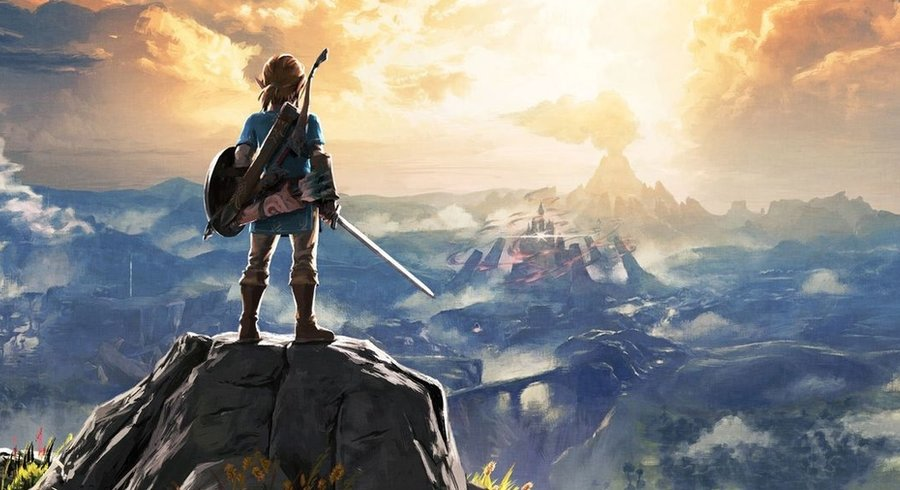
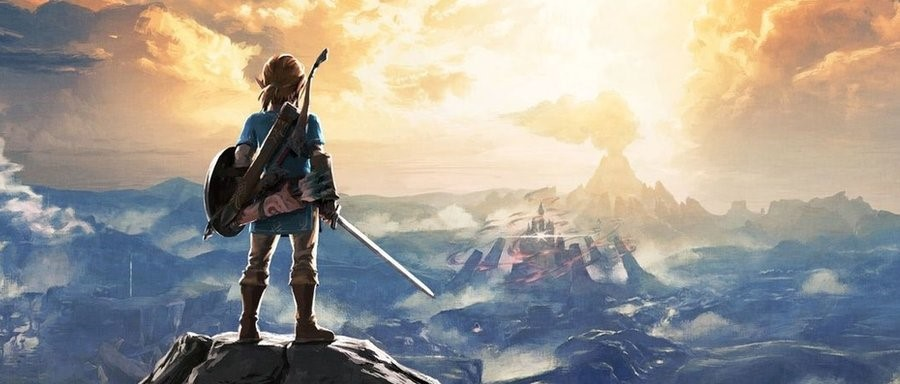
Add files via upload

diff --git a/style.css b/style.css
@@ -4,6 +4,10 @@ body{
     background: #004365;
 }
 
+#zelda{
+    width: 100%;
+}
+
 #titre_accueil{
     position: relative;
     color: white;
@@ -30,8 +34,9 @@ body{
 
 .li_haut ul{
     display: flex;
+    position: relative;
     height: 70px;
-    margin-top: 10px;
+    margin-top: 0;
     list-style-type: none;
     background: #ff572e;
     font-size: 1.5em;

diff --git a/index.php b/index.php
@@ -87,6 +87,8 @@ echo 'Bonjour M. ' . $_SESSION['utilisateur'] . '!';
 
         <img src="images/jeuxvideocomlogo.png" alt="logo jeuxvideo.com" id="logo_accueil">
 
+        <img src="images/fond_header" alt="fond du header" id="zelda">
+
 
         <div class="li_haut">
             <ul>

diff --git a/panier.php b/panier.php
@@ -1,7 +1,7 @@
 <?php
 
 
-require_once "articles.php";
+require_once "panier.php";
 
 
 
